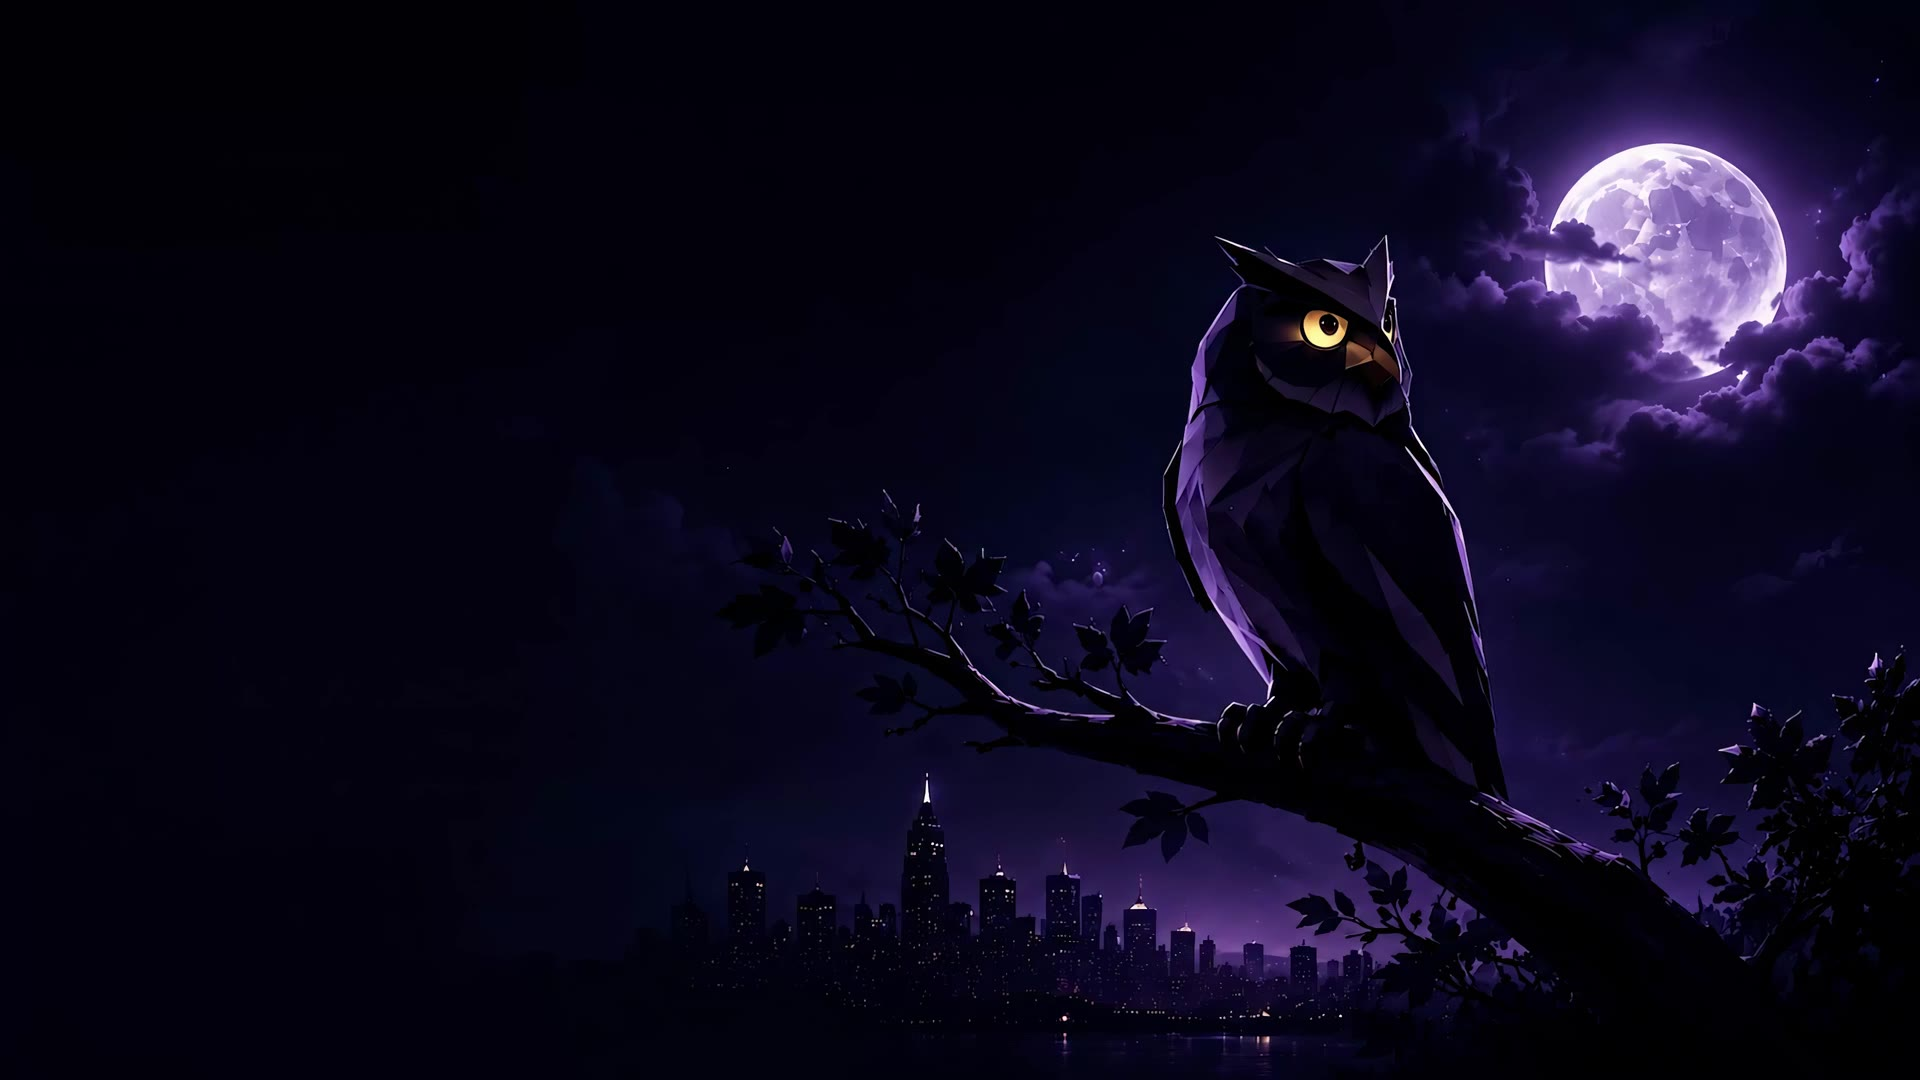
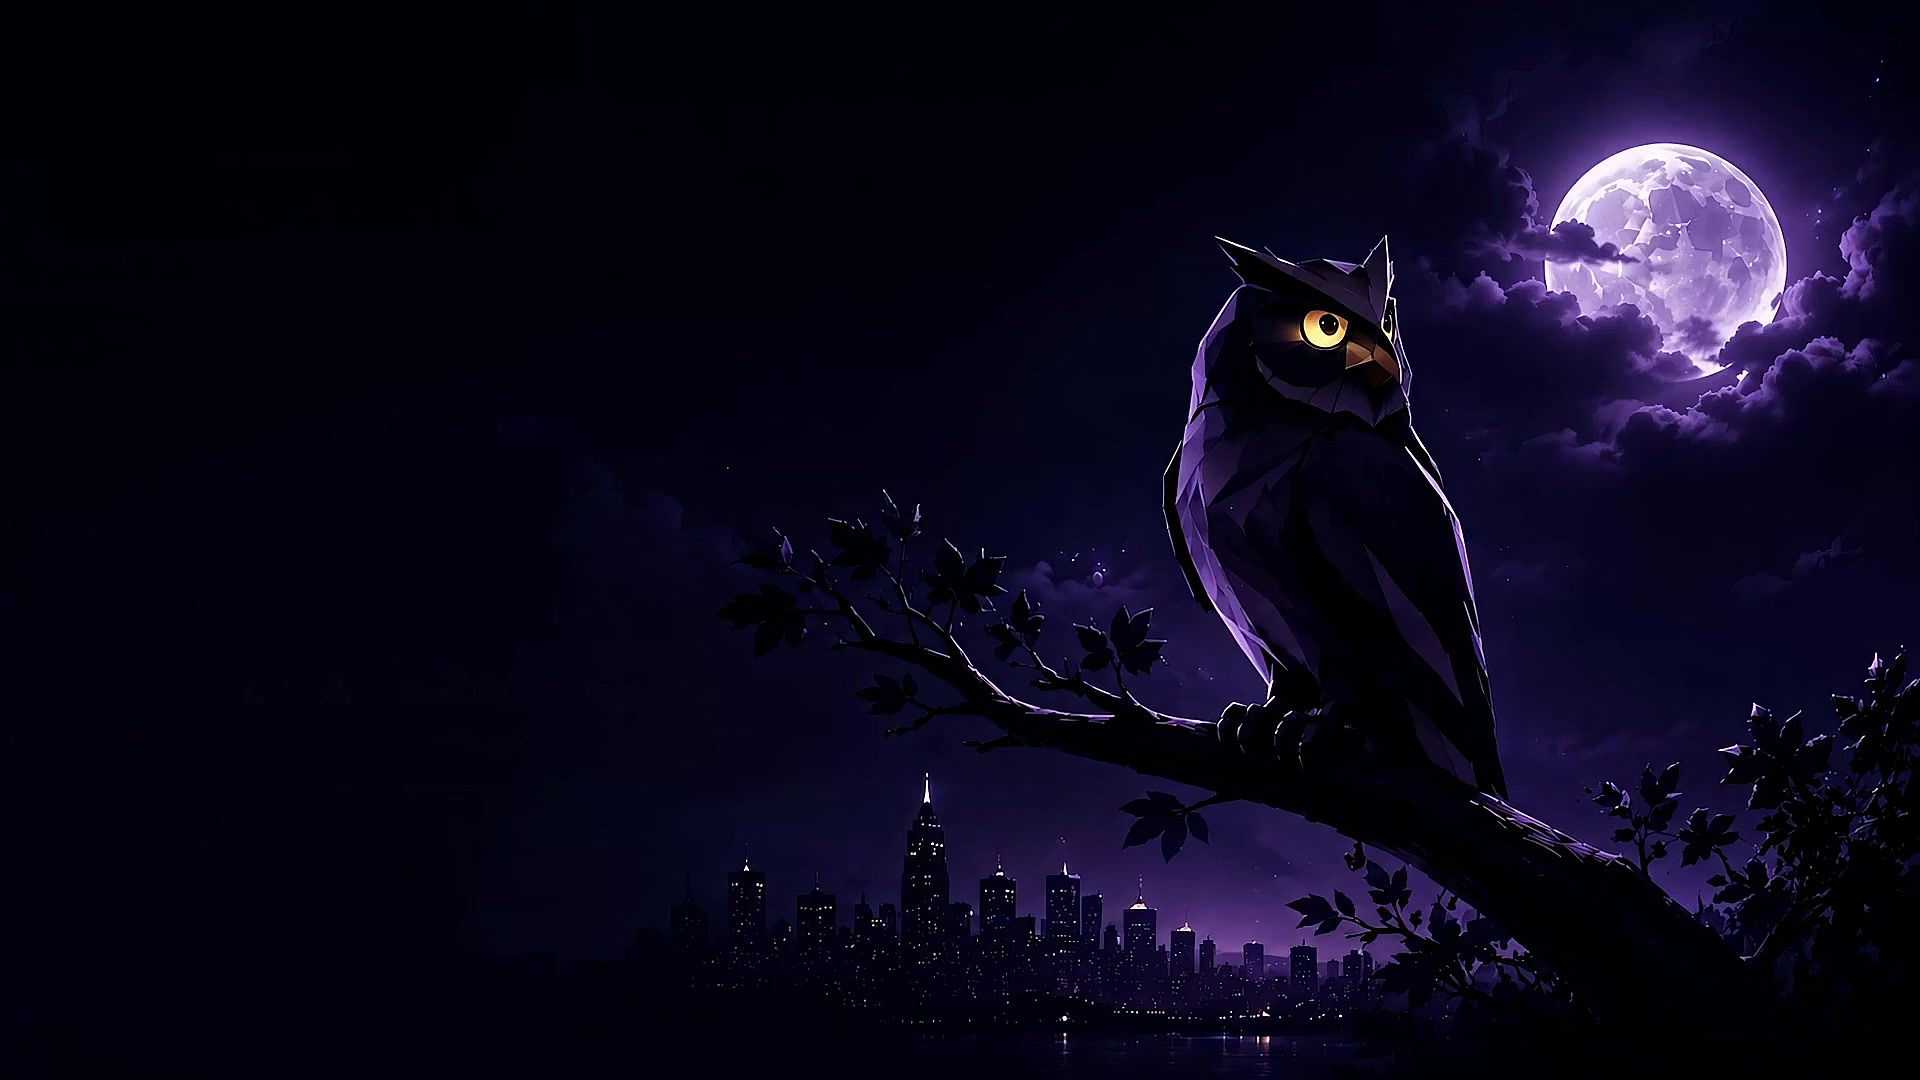
auto-commit for 9040f834-93f4-430e-89fa-c37972cc3990

diff --git a/frontend/src/components/ui/sky-toggle.jsx b/frontend/src/components/ui/sky-toggle.jsx
@@ -250,28 +250,35 @@ const StyledWrapper = styled.div`
     -ms-transform: translateY(-50%);
     transform: translateY(-50%);
   }
-  /* mode labels — sit inside the free half of the track, opposite the knob */
+  /* mode labels — sit inside the free half of the track, opposite the knob.
+     Bold purple with high-contrast halo so they read cleanly against both the
+     day-sky (blue) and night-sky (near-black) backgrounds. */
   .theme-switch .theme-switch__label {
     position: absolute;
     top: 50%;
     transform: translateY(-50%);
-    z-index: 1;
+    z-index: 3;
     font-family: "JetBrains Mono", ui-monospace, monospace;
-    font-size: 0.56em;
-    font-weight: 700;
-    letter-spacing: 0.14em;
+    font-size: 0.62em;
+    font-weight: 900;
+    letter-spacing: 0.18em;
     text-transform: uppercase;
-    color: #fff;
-    text-shadow: 0 1px 3px rgba(0, 0, 0, 0.65), 0 0 8px rgba(0, 0, 0, 0.4);
+    color: #d9b8ff;
+    text-shadow:
+      0 0 1px #ffffff,
+      0 1px 2px rgba(0, 0, 0, 0.9),
+      0 0 6px rgba(185, 109, 255, 0.85),
+      0 0 12px rgba(164, 74, 255, 0.55);
     opacity: 0;
     pointer-events: none;
     transition: opacity 0.35s ease 0.12s;
+    -webkit-font-smoothing: antialiased;
   }
   .theme-switch .theme-switch__label--unchecked {
-    right: 1.05em;
+    right: 0.95em;
   }
   .theme-switch .theme-switch__label--checked {
-    left: 1.05em;
+    left: 0.95em;
   }
   .theme-switch__checkbox:not(:checked) + .theme-switch__container .theme-switch__label--unchecked {
     opacity: 1;

diff --git a/frontend/src/components/site/HeroScrubVideo.jsx b/frontend/src/components/site/HeroScrubVideo.jsx
@@ -234,7 +234,6 @@ function DesktopScrubVideo() {
         }}
       >
         <source src={DESKTOP_SRC} type="video/mp4" />
-        <source src="/videos/owl-hero.webm" type="video/webm" />
       </video>
       {/* Soft edge wash — keeps text legible without darkening the owl */}
       <div

diff --git a/memory/PRD.md b/memory/PRD.md
@@ -63,6 +63,11 @@ Create a premium, cinematic landing page hero that feels calm, elegant, and inte
 - Testing: iteration_2.json — frontend 100% pass, zero console errors.
 - Fix round (same day): (1) scrub mapping inverted (t=0 owl looks right → cursor-right maps to t=0) so the owl's head follows the cursor; (2) startup lag fixed — seeks are gated to buffered ranges (no decoder stalls while streaming), instant `<img>` poster layer behind both hero videos, files re-encoded smaller (mp4 CRF22 24.5MB, webm CRF36 20.8MB); (3) Push/Pull labels moved INSIDE the sky toggle track (current mode shown opposite the knob, white JetBrains Mono + text-shadow), flanking label buttons removed — testids toggle-push/toggle-pull now on the inner spans, sky-toggle-input on the checkbox.
 
+## Iteration 7 (Feb 2026)
+- Push/Pull toggle labels: bolder + purple. `.theme-switch__label` now `font-weight: 900`, size `0.62em`, letter-spacing `0.18em`, color `#d9b8ff` with a multi-layer text-shadow (white halo + purple glow) so labels stay readable against the day-sky (blue) and night-sky (near-black) backgrounds. Bumped `z-index` above the sun/moon knob.
+- Hero video sharpness: re-encoded `owl-hero.mp4` at 1920×1080 all-intra x264 QP 21 (was ~12.4 Mbps → now ~21 Mbps, ~40 MB), `-preset slower -tune film -aq-mode 3 -psy-rd 1.2,0.15` + `unsharp` filter for perceived detail. Removed the 720p VP9 WebM (never picked by browsers that decode H.264; scrubbing needs all-intra mp4). Poster JPG regenerated at higher quality (~150 KB, `q:v 2` + unsharp).
+- Cleanup: `owl-hero.webm` source line removed from `HeroScrubVideo.jsx`; old WebM/backup files deleted from `public/videos/`.
+
 ## Prioritized Backlog
 - P1 — Contact form → email backend (currently `mailto:` on the Book-a-call CTA).
 - P1 — Additional case-study pages (Work cards currently link to `#contact`).